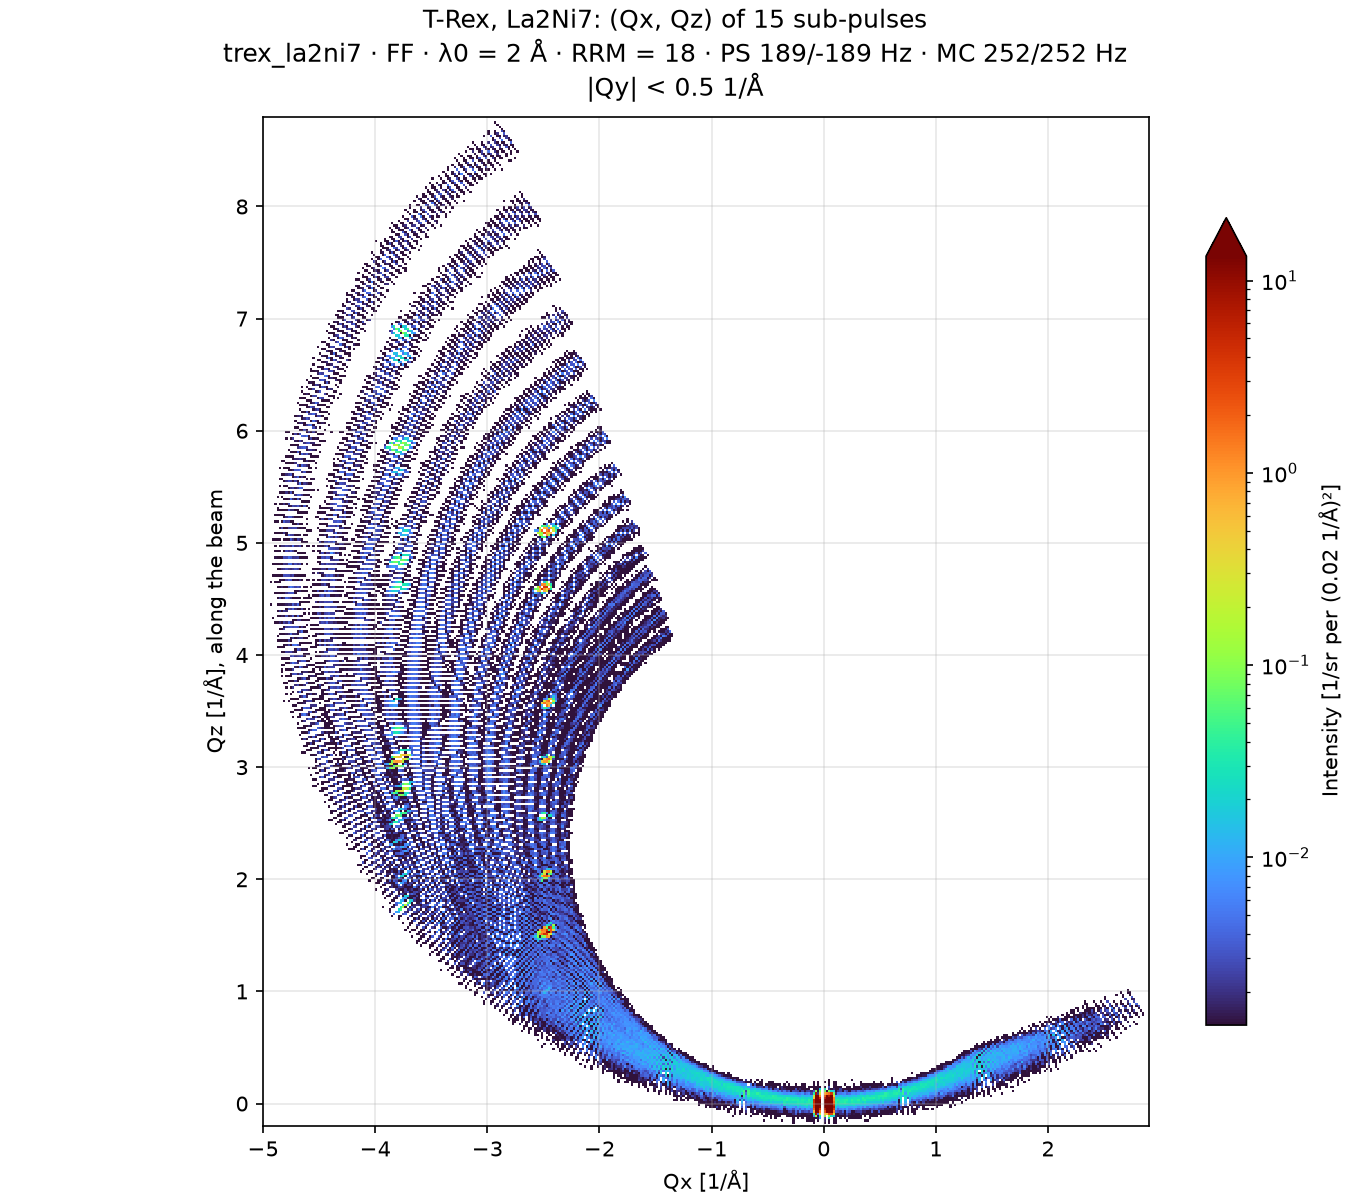
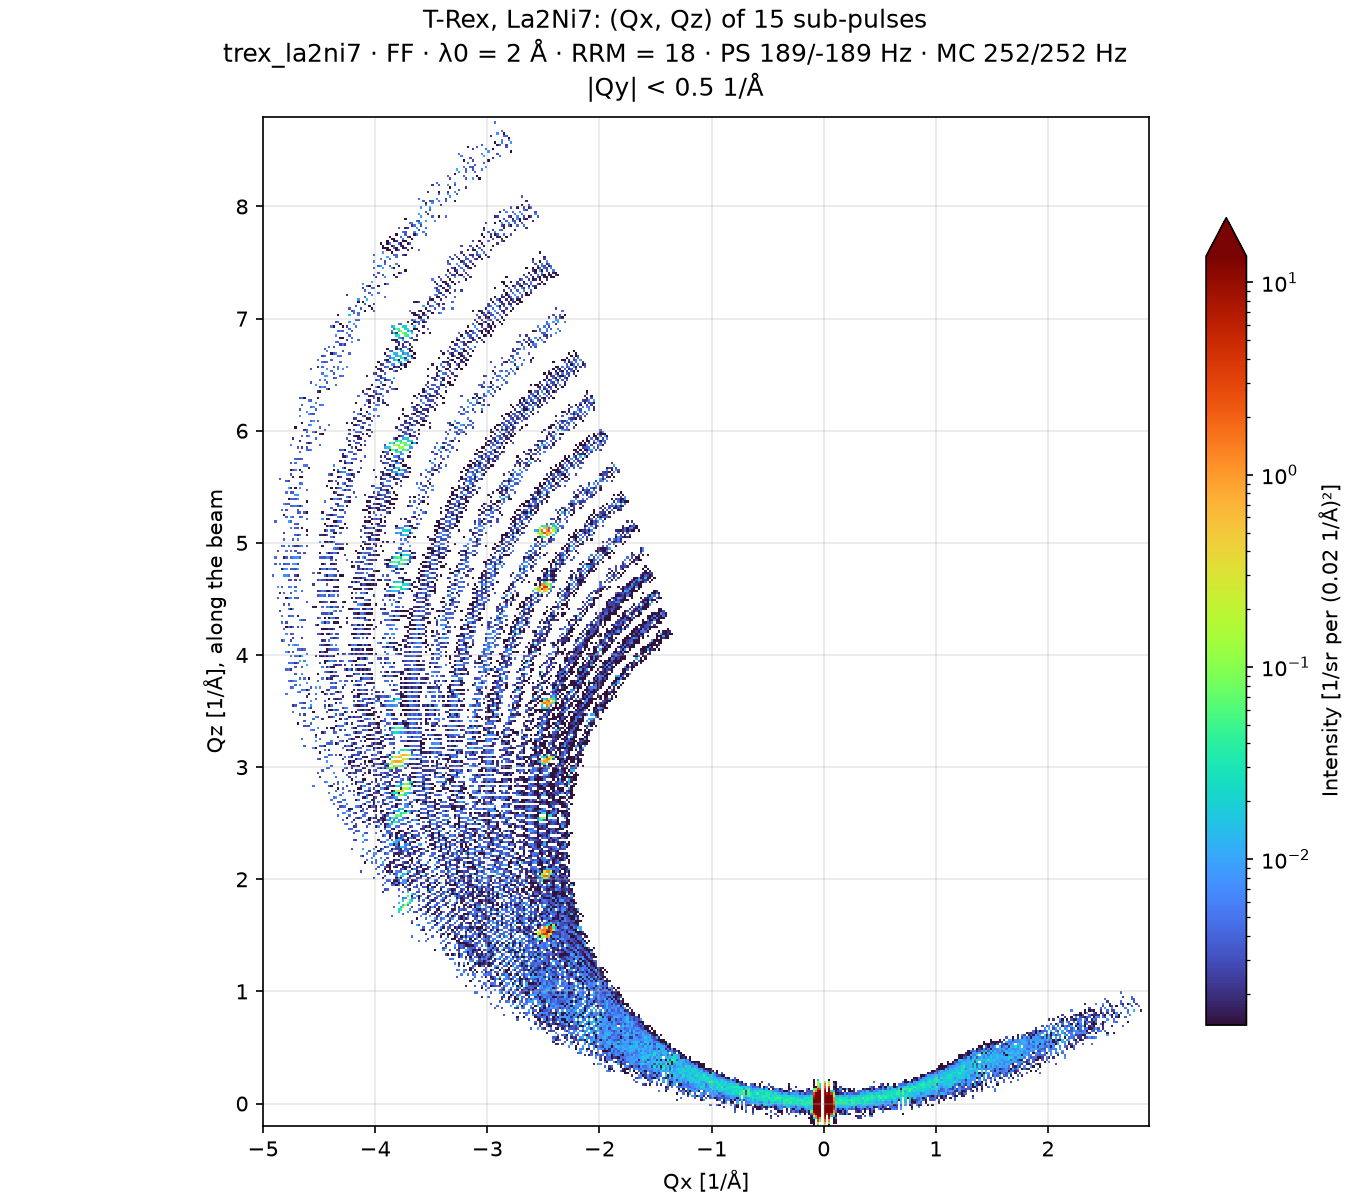
Make the elastic plane and the rotation scan figures again, with SPLIT 10 on the crystal
The figures are those of the current code, with the crystal splitting each neutron 10 times,
so the incoherent background between the Bragg peaks is sparser. Both pages give SPLIT 10, and
the table of the sub-pulses has the direct beam and the scattered fraction of this run.

diff --git a/docs/instruments/trex/elastic-plane.md b/docs/instruments/trex/elastic-plane.md
@@ -20,7 +20,7 @@ choppers let through.
 | Crystal | La2Ni7, P6₃/mmc, a = 5.0556 Å, c = 24.598 Å, a 5 mm cube with a 30′ mosaic |
 | Orientation | c* along the beam; (1.357 1 0) in the horizontal plane, to the left of the beam |
 | Scattering | Bragg reflections from the CIF, and incoherent scattering, single scattering only |
-| `SPLIT` | 100: few neutrons reach a 5 mm crystal, so McStas repeats each one that does |
+| `SPLIT` | 10: few neutrons reach a 5 mm crystal, so McStas repeats each one that does |
 | Detector | the banana detector, 3 m from the sample, 0.625° by 16 mm pixels, 25° below the beam to 15° above |
 
 ## Two runs, split at the sample
@@ -92,21 +92,21 @@ the top.
 ## The sub-pulses
 
 `analyze` prints each sub-pulse: its Ei, its flux at the pre-sample monitor and the fraction of
-its neutrons that reach the detector within its window. Split at |Q| = 0.2 Å⁻¹, that fraction is
-the direct beam past the beamstop, and the neutrons the crystal scatters:
+its neutrons that reach the detector within its window. Split at |Q| = 0.2 Å⁻¹, as in the table,
+that fraction is the direct beam past the beamstop, and the neutrons the crystal scatters:
 
 | Sub-pulse | λi | Ei | Flux | Direct beam | Scattered |
 | --------- | -- | -- | ---- | ----------- | --------- |
-| 0 | 1.317 Å | 47.17 meV | 8.2e5 n/s | 0 | 0.13 % |
-| 1 | 1.418 Å | 40.71 meV | 2.0e6 n/s | 0 | 0.34 % |
-| 3 | 1.613 Å | 31.46 meV | 2.2e6 n/s | 0.24 % | 0.53 % |
-| 7 | 2.000 Å | 20.45 meV | 1.7e6 n/s | 8.9 % | 0.35 % |
-| 10 | 2.290 Å | 15.59 meV | 1.7e6 n/s | 19.8 % | 0.35 % |
-| 14 | 2.683 Å | 11.36 meV | 4.5e5 n/s | 36.0 % | 0.03 % |
+| 0 | 1.317 Å | 47.17 meV | 8.2e5 n/s | 1.7 % | 0.14 % |
+| 1 | 1.418 Å | 40.71 meV | 2.0e6 n/s | 4.6 % | 0.35 % |
+| 3 | 1.613 Å | 31.46 meV | 2.2e6 n/s | 9.4 % | 0.53 % |
+| 7 | 2.000 Å | 20.45 meV | 1.7e6 n/s | 22.7 % | 0.35 % |
+| 10 | 2.290 Å | 15.59 meV | 1.7e6 n/s | 36.6 % | 0.35 % |
+| 14 | 2.683 Å | 11.36 meV | 4.5e5 n/s | 59.3 % | 0.03 % |
 
-The direct beam past the beamstop grows with the wavelength: the guides pass the long
-wavelengths at larger angles, so their beam spreads more over the 3 m to the beamstop. The
-crystal scatters 0.03 to 0.6 % of each sub-pulse into the detector.
+The direct beam past the beamstop grows with the wavelength, from 1.7 % to 59 %: the guides pass
+the long wavelengths at larger angles, so their beam spreads more over the 3 m to the beamstop.
+The crystal scatters 0.03 to 0.5 % of each sub-pulse into the detector.
 
 ## Making the figures
 

diff --git a/docs/instruments/trex/elastic-scan.md b/docs/instruments/trex/elastic-scan.md
@@ -17,7 +17,7 @@ defaults.
 | Crystal | La2Ni7, as on [Elastic plane](elastic-plane.md#the-setup) |
 | Orientation at omega = 0 | c* along the beam; (2 1 0) in the horizontal plane, to the left of the beam |
 | omega | −30° to 30°, in 31 steps of 2° |
-| `SPLIT` | 10, against 100 for one angle: every angle lists its own neutrons |
+| `SPLIT` | 10, as for one angle on [Elastic plane](elastic-plane.md#the-setup) |
 
 With (2 1 0) in the horizontal plane, 2a* + b* and c* span it, so turning the crystal about the
 vertical keeps that plane of reciprocal space horizontal. Each angle brings other reflections of
